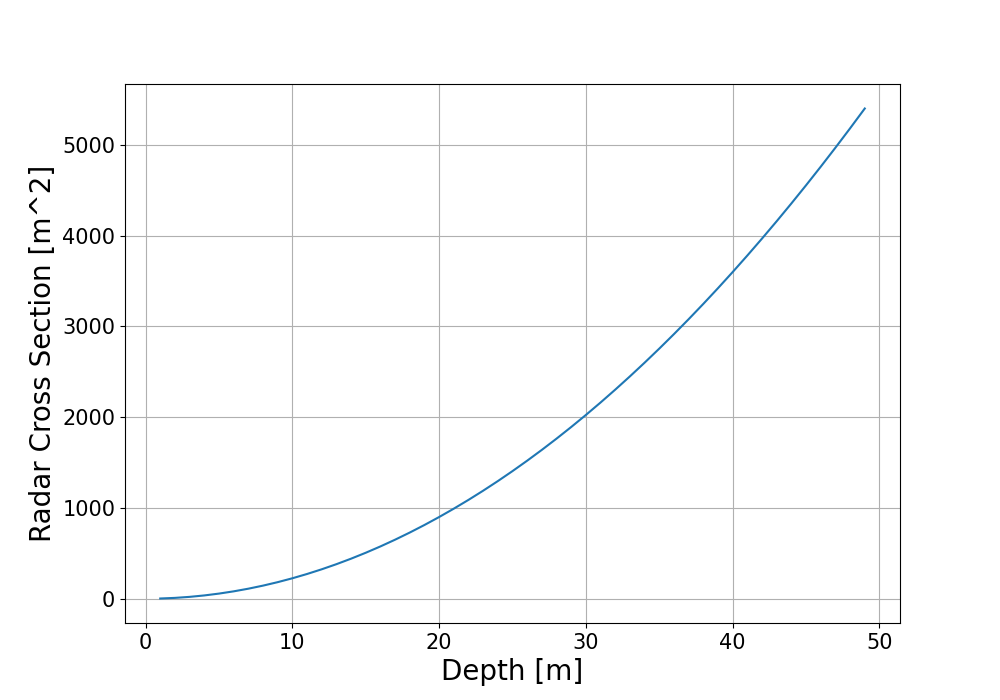
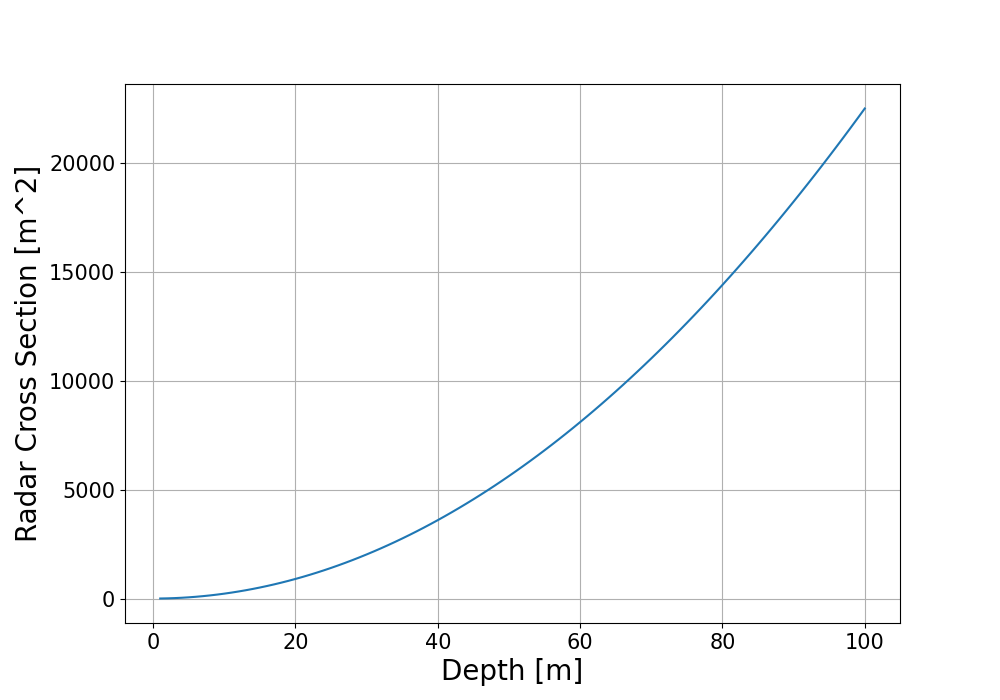
RCS100mまででプロットし直し

diff --git a/recieved_power_dB.py b/recieved_power_dB.py
@@ -124,17 +124,17 @@ def calc_Pr():
     
 
     # レーダー断面積のプロット
-    #plt.figure(figsize=(10, 7))
-    #plt.plot(depth, sigma2)
+    plt.figure(figsize=(10, 7))
+    plt.plot(depth, sigma2)
 
 
-    #plt.xlabel('Depth [m]', size = 20)
-    #plt.ylabel('Radar Cross Section [m^2]', size = 20)
-    #plt.tick_params(axis='both', labelsize=15)
-    #plt.grid()
+    plt.xlabel('Depth [m]', size = 20)
+    plt.ylabel('Radar Cross Section [m^2]', size = 20)
+    plt.tick_params(axis='both', labelsize=15)
+    plt.grid()
 
-    #plt.savefig('output_recieved_power/radar_cross_section.png')
-    #plt.show()
+    plt.savefig('output_recieved_power/radar_cross_section.png')
+    plt.show()
     
 
 
